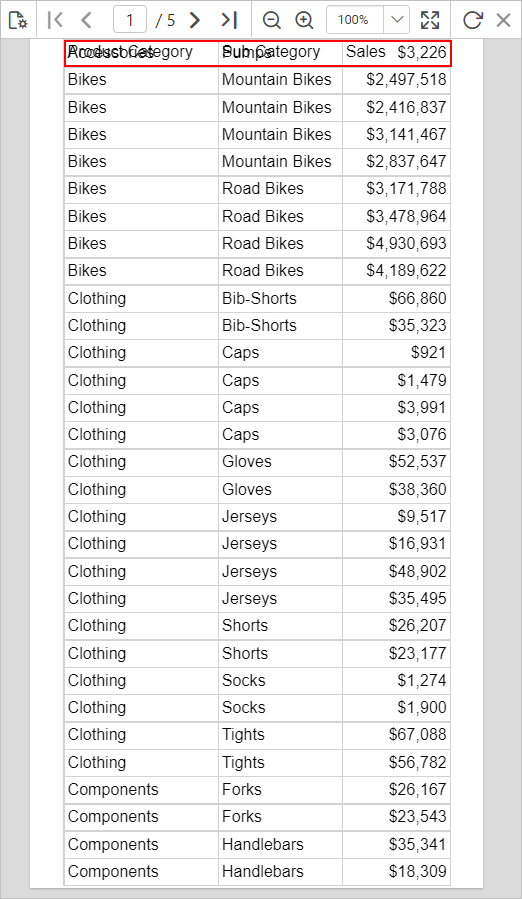
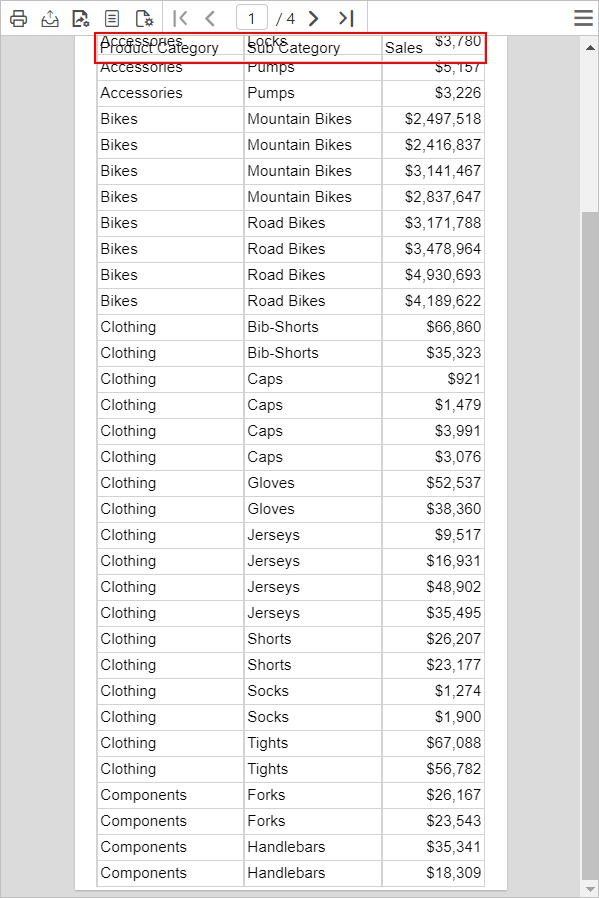
documentation(REPORT-9470): Modified title name and images for final report

diff --git a/docs/designer-guide/report-designer/report-items/tablix/keep-column-headers-visible-while-scrolling-in-ssrs.md b/docs/designer-guide/report-designer/report-items/tablix/keep-column-headers-visible-while-scrolling-in-ssrs.md
@@ -1,10 +1,10 @@
 ---
-title: Keep Headers visible while scrolling in SSRS | Bold Reports
-description: This section describes how to keep headers visible while scrolling in SSRS report in the Bold Report Designer
+title: Keep Headers Visible While Scrolling in SSRS | Bold Reports
+description: This section describes how to keep headers visible while scrolling in SSRS tablix report in the Bold Report Designer
 keywords: ejReportDesigner, reportdesigner, tablix, reportitem, bold reports, documentation, help, ej, user guide, demo, samples, bold reports, bold reporting, repeat headers
 ---
 
-# Keep Column Headers visible while scrolling in SSRS
+# Keep Column Headers Visible While Scrolling in SSRS
 
 To keep column headers visible while scrolling through the report, follow the below steps.
 
